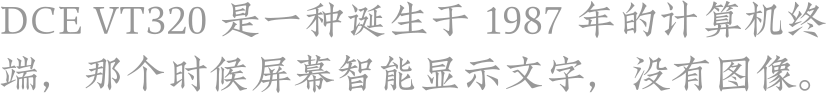
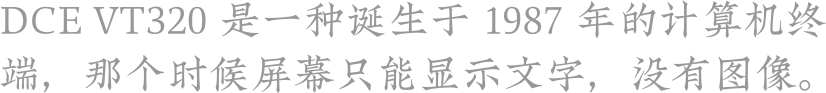
release 1.3.10

Changed region(s): [[0.3935, 0.6022, 0.454, 0.9677]]

diff --git a/src/utils/license.ts b/src/utils/license.ts
@@ -14,7 +14,7 @@ const license = [
         id: 'adobe',
         name: 'Adobe Font License',
         fonts: ['Trajan Pro 3', 'Baskerville PT', 'Source Han Serif', 'OCR B', 'P22 Underground', 'Eurostile',
-            'Myriad', 'Neue Aachen', 'Utopia', 'Gastromond', 'LTC Broadway', 'DIN 1451 Pro', 'Big Caslon', 'Balloon URW', 'Gill Sans Nova', 'Scriptorama Markdown JF', 'Matrix II', 'Volina', 'Oxtail', 'ITC Avant Garde Gothic', 'LTC Bodoni 175', 'Blenny Black', 'Rad', 'Variex', 'PMN Caecilia', 'PMN Caecilia Sans', 'New Zen', 'Source Han Sans', 'Study', 'Remedy', 'Anonymous', 'Lo-Res', 'Voltage', 'OCR A', 'Bello', 'Bell Centennial', 'Axia Stencil Black', 'DINosaur', 'Eskorte Latin Extrabold Italic', 'Fairwater Sailor Serif Regular', 'JAF Domus Titling','Calibri', 'Liquorstore 3D', 'Whitman', 'Cuisine', 'Willow', 'Ohno Blazeface', 'Turnip', 'Liana', 'Adobe Heiti', 'Sign Painter Regular', 'Mono 45 Headline', 'Juniper', 'Shuriken Boy', 'Trajan Color', 'Brioso', 'Flood', 'Permanent Marker', 'CarlMarx', 'Reross', 'Joschmi', 'Worker', 'Flyswim', 'Pitch', 'Basic Sans', 'Goodlife Sans', 'Bree', 'Battery Park', 'Capitol', 'Bubblegum Pop', 'Dazzle Unicase', 'Dazzle', 'Adobe Handwritting Tiffany', 'Becker Gothics Tuscan', 'Pulpo Rust', 'Input Sans', 'Mr Eaves', 'Mrs Eaves', 'Ironstrike', 'Alta California', 'Bounce Script']
+            'Myriad', 'Neue Aachen', 'Utopia', 'Gastromond', 'LTC Broadway', 'DIN 1451 Pro', 'Big Caslon', 'Balloon URW', 'Gill Sans Nova', 'Scriptorama Markdown JF', 'Matrix II', 'Volina', 'Oxtail', 'ITC Avant Garde Gothic', 'LTC Bodoni 175', 'Blenny Black', 'Rad', 'Variex', 'PMN Caecilia', 'PMN Caecilia Sans', 'New Zen', 'Source Han Sans', 'Study', 'Remedy', 'Anonymous', 'Lo-Res', 'Voltage', 'OCR A', 'Bello', 'Bell Centennial', 'Axia Stencil Black', 'DINosaur', 'Eskorte Latin Extrabold Italic', 'Fairwater Sailor Serif Regular', 'JAF Domus Titling','Calibri', 'Liquorstore 3D', 'Whitman', 'Cuisine', 'Willow', 'Ohno Blazeface', 'Turnip', 'Liana', 'Adobe Heiti', 'Sign Painter Regular', 'Mono 45 Headline', 'Juniper', 'Shuriken Boy', 'Trajan Color', 'Brioso', 'Flood', 'Permanent Marker', 'CarlMarx', 'Reross', 'Joschmi', 'Worker', 'Flyswim', 'Pitch', 'Basic Sans', 'Goodlife Sans', 'Bree', 'Battery Park', 'Capitol', 'Bubblegum Pop', 'Dazzle Unicase', 'Dazzle', 'Adobe Handwritting Tiffany', 'Becker Gothics Tuscan', 'Pulpo Rust', 'Input Sans', 'Mr Eaves', 'Mrs Eaves', 'Ironstrike', 'Alta California', 'Bounce Script', 'Hackman', 'Gunplay', 'Stack MortarBricks', 'Totally Gothic', 'Mr Darcy', 'Capucine', 'Bad Neighborhood', 'Viva', 'Narly', 'Eco', 'Brothers', 'Catnip', 'Beloved']
     },
     {
         id: 'apache',
@@ -26,7 +26,7 @@ const license = [
         name: 'SIL Open Font License',
         desc: '以下字体基于 SIL Open Font License。',
         fonts: ['Gloria Hallelujah', 'Bad Script', 'Merienda', 'Monoton', 'Dancing Script', 'Lobster', 'Vollkorn', 'Cookie',
-            'Tangerine','Alice','Cinzel','Average','Press Start 2P','Josefin Sans','Alike Angular','IM Fell DW Pica SC', '站酷庆科黄油体', 'Libre Barcode 39 Text', 'Srisakdi', 'Crimson Text', 'Bungee Shade', 'Over the Rainbow', 'Orbitron', 'Audiowide', 'Unica One', 'Major Mono Display', 'Bangers', 'Whitman', 'Comfortaa', 'Liquorstore 3D', 'Patrick Hand', 'Schoolbell', 'Asap', 'Poiret One', 'Great Vibes', 'Fredericka the Great', 'Acme', 'Play', 'EB Garamond', 'Courgette', 'Lato', 'Graduate', 'Freckle Face', 'Cute Font', 'Abril Fatface', 'Fira Sans', 'Racing Sans One', 'Righteous', 'Fascinate', 'Overlock', 'Boogaloo', 'Old Standard TT', 'Share Tech Mono', 'Cuprum', 'Shojumaru', 'Asana-Math', 'Comic Neue', 'Fredoka One', 'VT323', 'PT Serif', 'Yeon Sung', 'Yesteryear', 'B612', 'Mate', 'Economica', 'Architects Daughter', 'Black And White Picture', 'Philosopher', 'Annie Use Your Telescope', 'Lemonada', 'Waiting for the Sunrise', 'Love Ya Like A Sister', 'GFS Didot', 'Six Caps', 'Vast Shadow', 'Aladin', 'Julius Sans One'],
+            'Tangerine','Alice','Cinzel','Average','Press Start 2P','Josefin Sans','Alike Angular','IM Fell DW Pica SC', '站酷庆科黄油体', 'Libre Barcode 39 Text', 'Srisakdi', 'Crimson Text', 'Bungee Shade', 'Over the Rainbow', 'Orbitron', 'Audiowide', 'Unica One', 'Major Mono Display', 'Bangers', 'Whitman', 'Comfortaa', 'Liquorstore 3D', 'Patrick Hand', 'Schoolbell', 'Asap', 'Poiret One', 'Great Vibes', 'Fredericka the Great', 'Acme', 'Play', 'EB Garamond', 'Courgette', 'Lato', 'Graduate', 'Freckle Face', 'Cute Font', 'Abril Fatface', 'Fira Sans', 'Racing Sans One', 'Righteous', 'Fascinate', 'Overlock', 'Boogaloo', 'Old Standard TT', 'Share Tech Mono', 'Cuprum', 'Shojumaru', 'Asana-Math', 'Comic Neue', 'Fredoka One', 'VT323', 'PT Serif', 'Yeon Sung', 'Yesteryear', 'B612', 'Mate', 'Economica', 'Architects Daughter', 'Black And White Picture', 'Philosopher', 'Annie Use Your Telescope', 'Lemonada', 'Waiting for the Sunrise', 'Love Ya Like A Sister', 'GFS Didot', 'Six Caps', 'Vast Shadow', 'Aladin', 'Julius Sans One', ' Nothing You Could Do'],
         detail: `
             SIL Open Font License
             PREAMBLE

diff --git a/src/data/dayInfo.ts b/src/data/dayInfo.ts
@@ -157,7 +157,7 @@ export default `
 6.1 | Fredoka One | FredokaOne-Regular.ttf | 圆圆的字腔和笔画端头总能给人带来一种卡通的感觉。 | 祝各位大小朋友儿童节快乐！ |
 6.2 | Pulpo Rust | Pulpo Rust | 万事开头难。 | Pulpo Rust 在 Pulpo Rust 100 诞生之后，靠调整黑色像素点的比例一口气出了 25/50/75 三个版本。 |
 6.3 | Input Sans | Input Sans | 绝大多数为代码编辑器定制的字体都是等宽字体，这样比较容易看清代码的对齐情况。然而这款字体却剑走偏锋，出于美观的考虑，提供了等宽和非等宽两种选择。 | |
-6.4 | VT323 | VT323-Regular.ttf | VT323 复刻了 DCE VT320 的显示字体。 | DCE VT320 是一种诞生于 1987 年的计算机终端，那个时候屏幕智能显示文字，没有图像。 ||
+6.4 | VT323 | VT323-Regular.ttf | VT323 复刻了 DCE VT320 的显示字体。 | DCE VT320 是一种诞生于 1987 年的计算机终端，那个时候屏幕只能显示文字，没有图像。 ||
 6.5 | Mr Eaves | Mr Eaves Mod OT | 猜猜它的衬线体叫啥名字？ ||
 6.6 | Mrs Eaves | Mrs Eaves OT | 昨天的问题，你猜对了吗？ ||
 6.7 | Special Elite | SpecialElite-Regular.ttf | 每次看到这种笔画参差不齐的衬线体就一阵头皮发麻，仿佛收到了封恐吓信似的。 ||
@@ -185,6 +185,20 @@ export default `
 6.29 | Vast Shadow | VastShadow-Regular.ttf | 有不断挑战更窄的就有挑战横向发展的。 | |
 6.30 | Aladin | Aladin-Regular.ttf | 2019 年已经过去了一半，计划完成了多少呢？ | 字体日历内容编辑的坑终于填完了一半…… |
 7.1 | Julius Sans One | JuliusSansOne-Regular.ttf | 凯撒大帝以自己的名字 Julius 命名了七月（July），那么这个月第一天用 Julius Sans One 当然最贴切啦！ | |
+7.2 | Hackman | Hackman | 今天是国际体育记者日，推荐一款看起来很适合体育新闻中使用的字体。 ||
+7.3 | Nothing You Could Do | NothingYouCouldDo.ttf | 今天是国际接吻日。||
+7.4 | Gunplay | Gunplay | 枪战。||
+7.5 | Stack#MortarBricks | Stack | 像砖块一样堆砌起来的字体！|
+7.6 | Totally Gothic | TotallyGothic OT | 这款名为「完全哥特」的字体看起来真是让人毛骨悚然。| |
+7.7 | Mr Darcy | Mr Darcy | 达西先生是简·奥斯汀著名小说《傲慢与偏见》里的男主角，这款字体用来作为小说的封面字体再合适不过。|
+7.8 | Capucine | Capucine Basic | 工作久了的时候，不妨伸个懒腰，可以看上去更活力哦! | Capucine 通过垂直笔画上稍稍弯曲让整体看上去不那么死板。 |
+7.9 | Bad Neighborhood | BadNeighborhood | 如果邻里治安不好，你说不定会看到用这样字体喷漆的恐吓吧？ ||
+7.10 | Viva | Viva Std | Viva 有山呼万岁之意，这一款字体很适合用于庆祝胜利。||
+7.11 | Narly | Narly OT | 用点连成的形状表现字母，有一种印象派的感觉。||
+7.12 | Eco | Eco | 古怪又有点可爱。||
+7.13 | Brothers | Brothers OT | 是兄弟就和我一起来用这款字体啊！||
+7.14 | Catnip | Catnip | 这款字体或许是吸了猫薄荷的猫写#出来的。| Catnip 意为猫薄荷，是一种有特殊气味的植#物，据说大约有一般的猫对它感兴趣，喜欢#抓咬。|
+8.7 | Beloved | Beloved Script | 致亲爱的你…… | 今日农历七夕节。 ||
 
 <!--
 2.1 | Vectora | Vectora LT Pro 55 Roman | Vectora的小写字母比大写字母小不了多少，使得其非常适合在小字号下使用 |  |
@@ -195,9 +209,6 @@ export default `
 2.25 | Faster One | FasterOne-Regular.ttf | 「Run Faster than HK Journalists」 |  |
 2.27 | Sacramento | Sacramento-Regular.ttf | 即便只有一条细线，照样能耍出花样。 |  |
 2.28 | Blitz | Wiescher Design - Blitz-Thin.otf | 头重脚轻往往容易给人一种摇摇欲坠的感觉，在字体里进行这样的尝试却有意外的动感收获 |  |
-6.1 | Mati |||
-6.9 | PT Serif || 俄罗斯彼得大帝 1672 年 6 月 9 日出生，这款字体是为了纪念 300 年前彼得大帝下令创建的 Civil Type 字体。||
-6.12 | B612 Mono |||
 7.21 | Armstrong | | |
 8.8 | Museo |
 10.3 | ITC American Typewriter | itc-american-typewriter.ttf | 「一锅火热的爱」 | 经典的「I ❤ NY」用的就是 American Typewriter。 |

diff --git a/src/utils/constants.ts b/src/utils/constants.ts
@@ -6,8 +6,8 @@ if (IS_DEBUG) {
     console.log('THIS IS IN DEBUG MODE.');
 }
 
-export const VERSION = '1.3.9';
-export const LAST_AVAILABLE_DATE = '2019-07-01';
+export const VERSION = '1.3.10';
+export const LAST_AVAILABLE_DATE = '2019-07-14';
 
 export const DPR = 2;
 export const IMAGE_DPR = 3;
